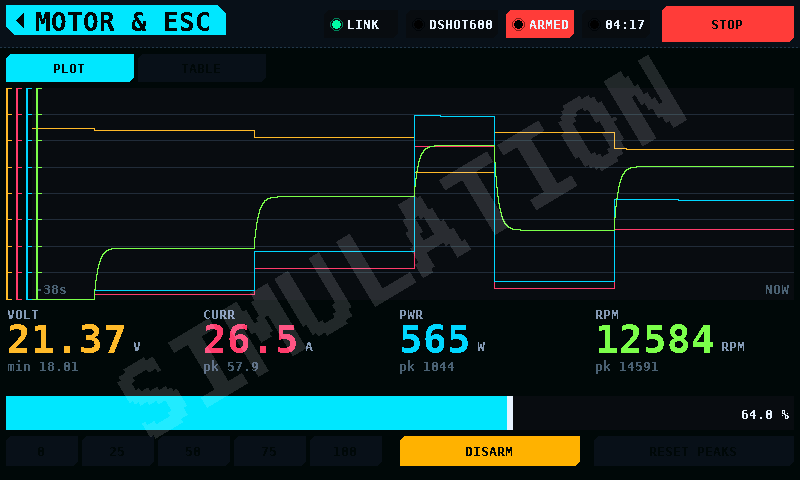
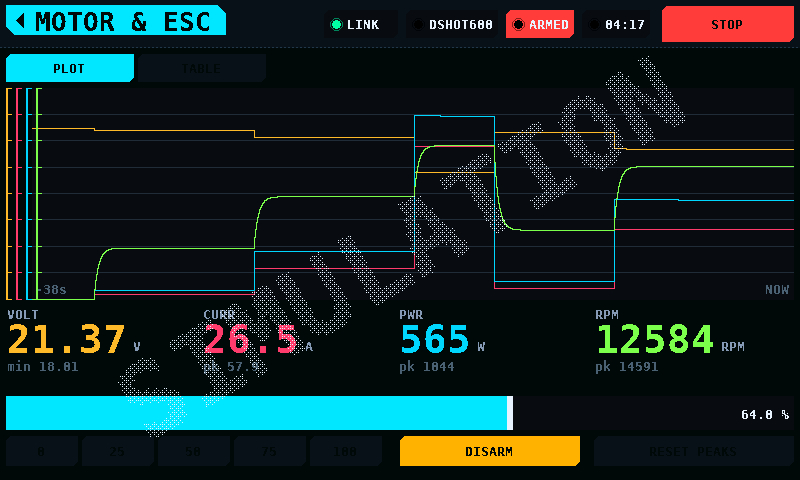
The watermark stencils rather than blends (#41)
* The watermark stencils rather than blends

SIMULATION went solid within about a second of sitting still, and stayed
correct only over the ESC bench plot -- which is the one region that
repaints its own background every frame, so the bug hid exactly where
anyone would look first.

ui_router_render lays the mark over the whole canvas every frame, while
the screens beneath it repaint only what changed.  gfx_lerp reads the
destination, so on any pixel a screen had not repainted, frame n blended
15% over frame n-1's already-blended result: 15%, 28%, 39%, and 80%
opaque after ten frames.

Writing a fixed colour to a fixed subset of pixels is idempotent, so it
stencils through an 8x8 ordered dither at full opacity instead.  Alpha
now means coverage rather than weight, which is documented on the
function; the watermark is its only caller.

Readability came from weight before and comes from sparseness now, so
the nav case that asserted almost nothing reached the ink colour has
been rewritten to assert what actually keeps the screen legible: a
marked pixel's neighbours are mostly unmarked.  Both new gfx cases and
the rewritten nav case were confirmed to fail against the old blend.

* Re-measure the frame cost the stencil changed

A simulated frame drops from 11,825 cache-line fills to 10,985.  The
stencil writes the same glyph pixels the blend did but no longer reads
each one back first, and on a board where the render is bandwidth-bound
that read was 7% of the frame.
[…]

Changed region(s): [[0.125, 0.125, 0.875, 0.9062]]

diff --git a/test/host/test_nav.c b/test/host/test_nav.c
@@ -451,10 +451,23 @@ TEST_CASE(the_simulation_mark_covers_the_whole_screen)
     free(plain);
 }
 
-/* It blends rather than overwrites: the numbers underneath stay readable,
- * which is what makes a permanent mark tolerable instead of something people
- * want switched off. */
-TEST_CASE(the_simulation_mark_blends_rather_than_covers)
+/*
+ * The numbers underneath stay readable, which is what makes a permanent mark
+ * tolerable instead of something people want switched off.
+ *
+ * It used to get there by blending, and this case used to assert that almost
+ * no marked pixel reached the ink colour outright.  That contract was wrong:
+ * the mark is laid over screens that repaint only what changed, so it landed
+ * on pixels already carrying its own output from earlier frames and the blend
+ * compounded -- 15% over 15% is 28%, then 39%, until it was solid.  Only the
+ * plot looked right, because it repaints its background every frame.
+ *
+ * So it stencils instead, and readability now comes from sparseness rather
+ * than from weight.  That is what this measures: a marked pixel's neighbours
+ * are mostly unmarked, so the content underneath reads through the gaps.  A
+ * solid fill would score close to eight.
+ */
+TEST_CASE(the_simulation_mark_lets_the_screen_through)
 {
     fresh();
     to_overview();
@@ -473,19 +486,37 @@ TEST_CASE(the_simulation_mark_blends_rather_than_covers)
     ui_router_render(&cv, 0);
 
     const gfx_color_t ink = ui_theme_color(UI_C_TEXT);
-    int changed = 0, opaque = 0;
-    for (int i = 0; i < W * H; ++i) {
-        if (fb[i] != plain[i]) {
+    int changed = 0, not_ink = 0, marked_neighbours = 0;
+    for (int y = 1; y < H - 1; ++y) {
+        for (int x = 1; x < W - 1; ++x) {
+            const size_t at = (size_t)y * W + (size_t)x;
+            if (fb[at] == plain[at]) {
+                continue;
+            }
             ++changed;
-            if (fb[i] == ink) {
-                ++opaque;
+            if (fb[at] != ink) {
+                ++not_ink;
+            }
+            for (int dy = -1; dy <= 1; ++dy) {
+                for (int dx = -1; dx <= 1; ++dx) {
+                    if (dx == 0 && dy == 0) {
+                        continue;
+                    }
+                    const size_t n = (size_t)(y + dy) * W + (size_t)(x + dx);
+                    if (fb[n] != plain[n]) {
+                        ++marked_neighbours;
+                    }
+                }
             }
         }
     }
     CHECK(changed > 2000);
-    /* At 15% almost nothing should reach the ink colour outright. */
-    if (opaque * 20 > changed) {
-        T_FAIL("%d of %d marked pixels are fully opaque", opaque, changed);
+    /* A stencil, so a marked pixel is the ink colour and nothing between. */
+    CHECK_EQ(not_ink, 0);
+    if (marked_neighbours > changed * 4) {
+        T_FAIL("marked pixels average %.1f marked neighbours of 8, which is "
+               "closer to a fill than to a watermark",
+               (double)marked_neighbours / (double)changed);
     }
     free(plain);
 }
@@ -590,7 +621,7 @@ int main(void)
     RUN(a_failed_step_is_drawn_in_its_own_colour);
     RUN(the_alert_band_renders_at_the_bottom);
     RUN(the_simulation_mark_covers_the_whole_screen);
-    RUN(the_simulation_mark_blends_rather_than_covers);
+    RUN(the_simulation_mark_lets_the_screen_through);
     RUN(switching_the_mark_invalidates_the_cached_chrome);
     return test_summary("nav");
 }

diff --git a/shared/gfx/gfx.c b/shared/gfx/gfx.c
@@ -838,6 +838,20 @@ void gfx_text_in(gfx_canvas_t *c, gfx_rect_t box, const char *s,
 
 /* ------------------------------------------------------------- rotated text */
 
+/*
+ * An 8x8 ordered-dither threshold, used by gfx_text_rotated below.
+ */
+static const uint8_t k_bayer8[64] = {
+     0, 32,  8, 40,  2, 34, 10, 42,
+    48, 16, 56, 24, 50, 18, 58, 26,
+    12, 44,  4, 36, 14, 46,  6, 38,
+    60, 28, 52, 20, 62, 30, 54, 22,
+     3, 35, 11, 43,  1, 33,  9, 41,
+    51, 19, 59, 27, 49, 17, 57, 25,
+    15, 47,  7, 39, 13, 45,  5, 37,
+    63, 31, 55, 23, 61, 29, 53, 21,
+};
+
 void gfx_text_rotated(gfx_canvas_t *c, int cx, int cy, const char *s,
                       const gfx_font_t *font, gfx_color_t fg, int scale,
                       uint8_t alpha, float angle_deg)
@@ -851,6 +865,11 @@ void gfx_text_rotated(gfx_canvas_t *c, int cx, int cy, const char *s,
 
     const int len = (int)strlen(s);
     if (len <= 0) {
+        return;
+    }
+    /* Rounded, so a caller's alpha maps to the nearest 1/64 of coverage. */
+    const int thresh = ((int)alpha * 64 + 127) / 255;
+    if (thresh <= 0) {
         return;
     }
     const int tw = len * font->width * scale;
@@ -904,8 +923,28 @@ void gfx_text_rotated(gfx_canvas_t *c, int cx, int cy, const char *s,
                 continue;
             }
 
-            gfx_pixel(c, dx, dy,
-                      gfx_lerp(gfx_pixel_get(c, dx, dy), fg, alpha));
+            /*
+             * A stencil at full opacity, not a blend -- because this is the
+             * one piece of drawing applied over pixels somebody else may not
+             * have repainted this frame.
+             *
+             * gfx_lerp reads the destination, so laying 15% over a pixel
+             * that already carried last frame's 15% gives 28%, then 39%, and
+             * within a second the watermark was solid.  It looked correct
+             * only over the plot, which is the one region repainting its own
+             * background every frame -- so the bug hid exactly where anyone
+             * would have looked first.
+             *
+             * Writing a fixed colour to a fixed subset of pixels is
+             * idempotent: applying it twice is applying it once, however
+             * many frames go by without the screen beneath it moving.
+             * `alpha` still means what it meant, as the fraction of pixels
+             * covered rather than the weight of a blend.
+             */
+            if (k_bayer8[((dy & 7) << 3) + (dx & 7)] >= thresh) {
+                continue;
+            }
+            gfx_pixel(c, dx, dy, fg);
         }
     }
 }

diff --git a/test/host/test_gfx.c b/test/host/test_gfx.c
@@ -34,6 +34,52 @@ static int count_of(gfx_color_t color)
     return n;
 }
 
+/* ------------------------------------------------------- rotated text */
+
+/*
+ * The watermark is laid over screens that repaint only what changed, so it
+ * meets pixels carrying its own output from previous frames.  A blend would
+ * compound there -- 15% over 15% is 28%, then 39% -- and the warning that a
+ * reading is simulated would quietly go solid while the plot area, which
+ * repaints its background every frame, stayed correct and hid it.
+ *
+ * So the property is not "it looks 15%".  It is that drawing it again
+ * changes nothing.
+ */
+TEST_CASE(rotated_text_is_idempotent)
+{
+    fresh();
+    gfx_text_rotated(&s_c, W / 2, H / 2, "SIM", &gfx_font_8x16,
+                     GFX_WHITE, 1, 38, -30.0f);
+    gfx_color_t once[W * H];
+    memcpy(once, s_pixels, sizeof(once));
+
+    for (int again = 0; again < 20; ++again) {
+        gfx_text_rotated(&s_c, W / 2, H / 2, "SIM", &gfx_font_8x16,
+                         GFX_WHITE, 1, 38, -30.0f);
+    }
+    CHECK_EQ(memcmp(once, s_pixels, sizeof(once)), 0);
+    /* And it actually drew something, so the check above is not vacuous. */
+    CHECK(count_of(GFX_WHITE) > 0);
+}
+
+/* Coverage scales with alpha, which is what alpha now means. */
+TEST_CASE(rotated_text_alpha_sets_coverage)
+{
+    fresh();
+    gfx_text_rotated(&s_c, W / 2, H / 2, "SIM", &gfx_font_8x16,
+                     GFX_WHITE, 1, 38, -30.0f);
+    const int light = count_of(GFX_WHITE);
+
+    fresh();
+    gfx_text_rotated(&s_c, W / 2, H / 2, "SIM", &gfx_font_8x16,
+                     GFX_WHITE, 1, 200, -30.0f);
+    const int heavy = count_of(GFX_WHITE);
+
+    CHECK(heavy > light);
+    CHECK(light > 0);
+}
+
 /* --------------------------------------------------------------- colour */
 
 TEST_CASE(rgb565_packing)
@@ -726,5 +772,7 @@ int main(void)
     RUN(degenerate_canvas_geometry_is_clamped);
     RUN(a_missing_glyph_is_visible);
     RUN(a_line_with_absurd_endpoints_is_bounded_and_stays_in_the_clip);
+    RUN(rotated_text_is_idempotent);
+    RUN(rotated_text_alpha_sets_coverage);
     return test_summary("gfx");
 }

diff --git a/shared/gfx/include/gfx.h b/shared/gfx/include/gfx.h
@@ -235,6 +235,11 @@ int gfx_text_bg(gfx_canvas_t *c, int x, int y, const char *s,
  * This exists for one job: a watermark that says the numbers behind it are not
  * real.  It is not a general text transform, and it is not fast enough to be
  * one.
+ *
+ * `alpha` is coverage, not weight: the glyphs are stencilled at full opacity
+ * onto that fraction of pixels, chosen by an ordered dither.  Drawing this
+ * twice over the same pixels is the same as drawing it once, which is what a
+ * full-screen overlay laid over selectively repainted screens requires.
  */
 void gfx_text_rotated(gfx_canvas_t *c, int cx, int cy, const char *s,
                       const gfx_font_t *font, gfx_color_t fg, int scale,

diff --git a/docs/Performance.md b/docs/Performance.md
@@ -23,11 +23,11 @@ panel 39.0 Hz, ~39 MB/s effective -> 976 KiB of traffic per panel frame
 
 mode       lines/frame     traffic   est. ms  est. fps
 -------------------------------------------------------
-frame           10,264     1283 KiB     33.7      19.5
-frame-idle          740       92 KiB      2.4      39.0
-sim             11,825     1478 KiB     38.8      19.5
-chrome          24,896     3112 KiB     81.7       9.8
-overview           821      103 KiB      2.7      39.0
+frame           10,263     1283 KiB     33.7      19.5
+frame-idle          745       93 KiB      2.4      39.0
+sim             10,985     1373 KiB     36.1      19.5
+chrome          24,890     3111 KiB     81.7       9.8
+overview           820      102 KiB      2.7      39.0
 clear           12,006     1501 KiB     39.4      19.5
 vlines           8,160     1020 KiB     26.8      19.5
 hlines               0        0 KiB      0.0      39.0

diff --git a/README.md b/README.md
@@ -336,7 +336,7 @@ samples currently costs **740**.
 
 | File | Lines | Covered | Coverage |
 | --- | ---: | ---: | ---: |
-| `shared/gfx/gfx.c` | 514 | 498 | 96.9% |
+| `shared/gfx/gfx.c` | 518 | 501 | 96.7% |
 | `shared/touch/touch_map.c` | 100 | 100 | 100.0% |
 | `shared/ui/ui_theme.c` | 42 | 41 | 97.6% |
 | `shared/ui/ui_widgets.c` | 111 | 104 | 93.7% |
@@ -378,7 +378,7 @@ samples currently costs **740**.
 | `shared/bench/throttle.c` | 53 | 45 | 84.9% |
 | `shared/bench/telemetry_sim.c` | 47 | 44 | 93.6% |
 | `shared/bench/log_writer.c` | 43 | 40 | 93.0% |
-| **total** | **5367** | **5090** | **94.8%** |
+| **total** | **5371** | **5093** | **94.8%** |
 
 _Generated by `tools/coverage.py`; CI runs `--check` and fails on drift._
 <!-- coverage:end -->
